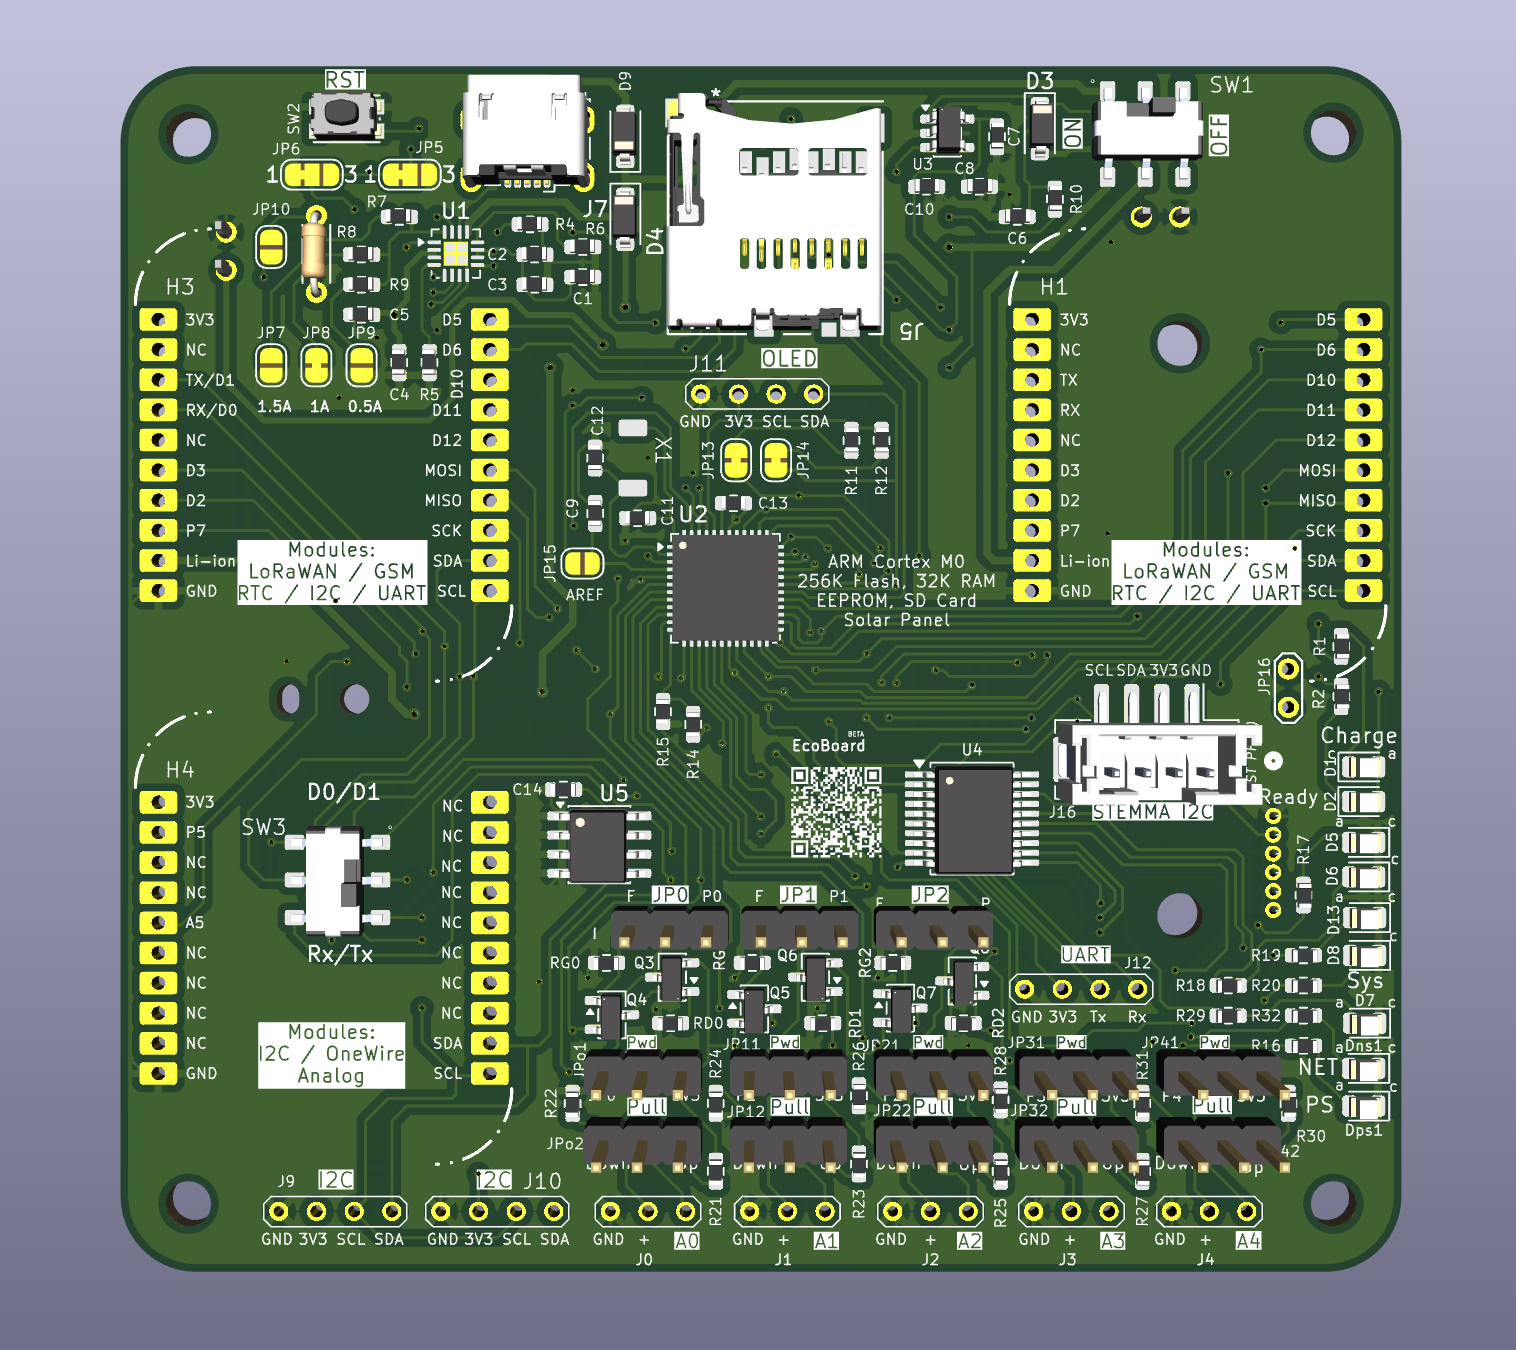
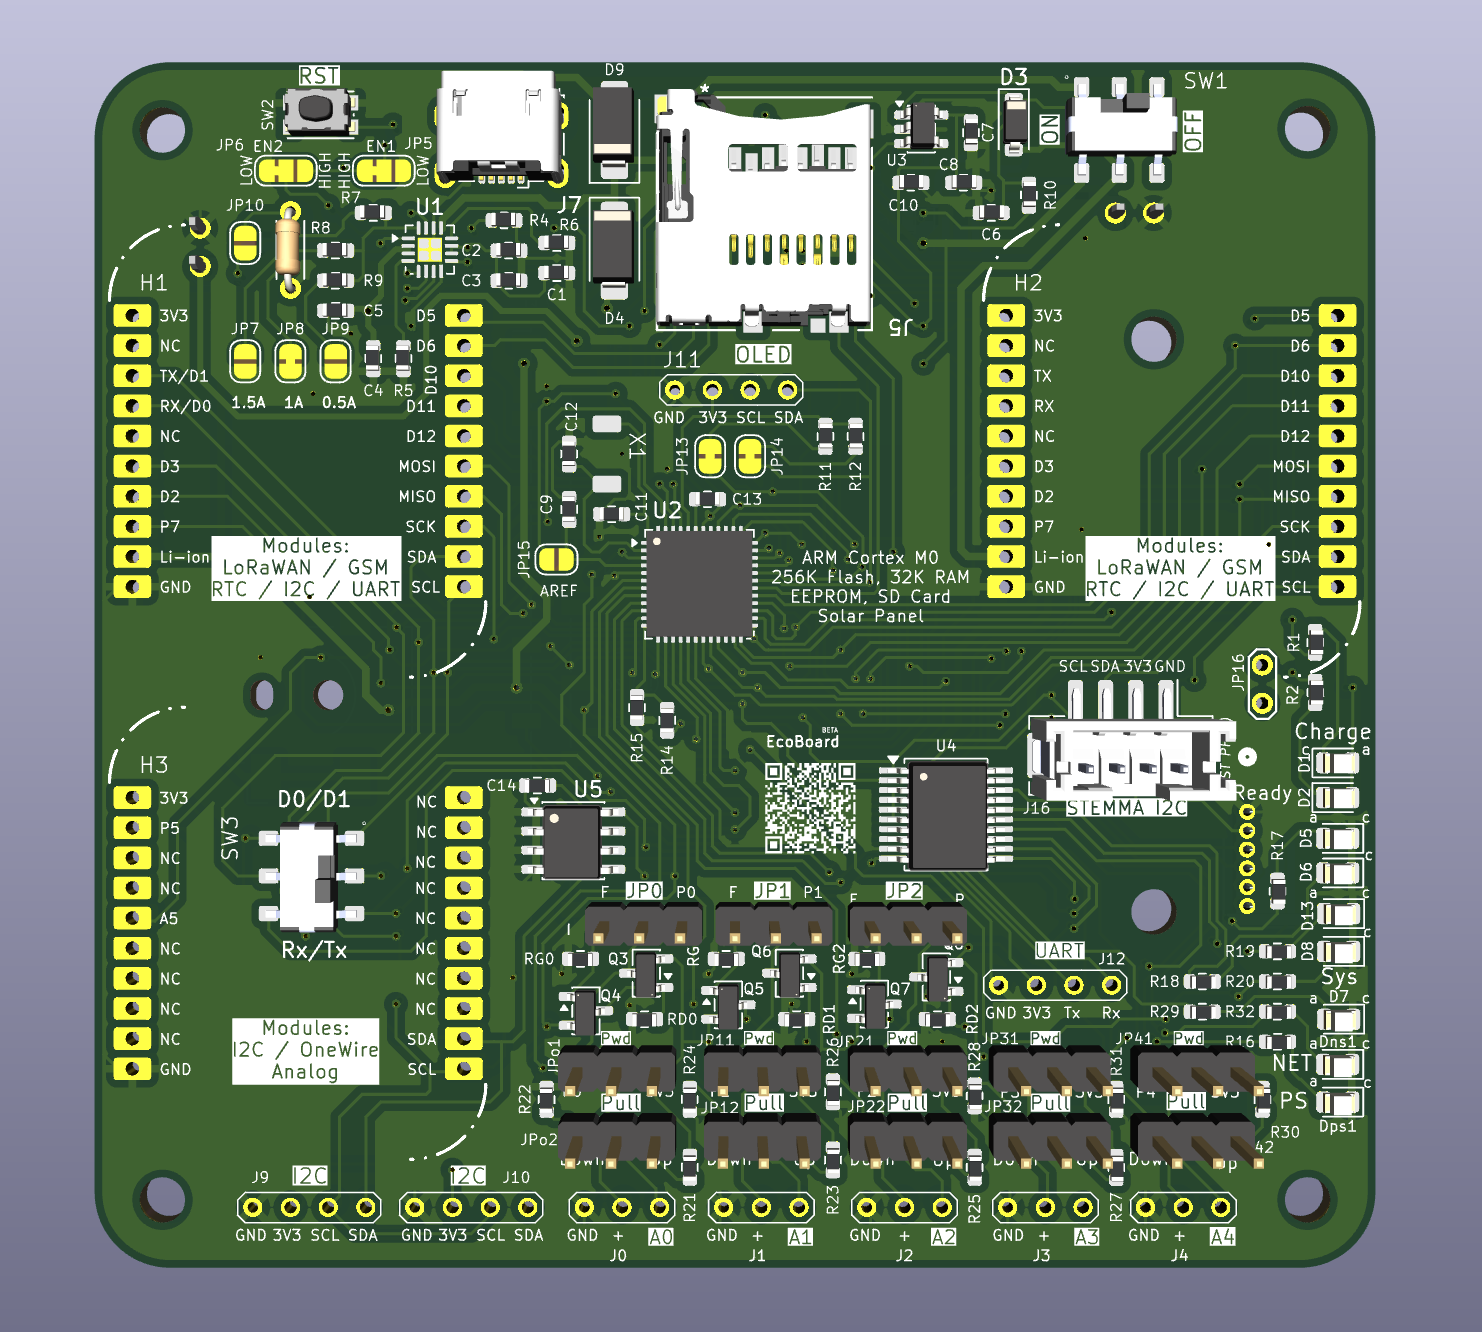
upadte

diff --git a/README.md b/README.md
@@ -332,11 +332,7 @@ Pin | Out
 
 
 
-### Header J9 (EcoLora V3 input)
-![EcoLora V3](assets/lorawan.jpg)
-
-At J9, you can use and connect the EcoLora V3 board. The GSM board is not ready yet.
-The ATSAMD21G18 column indicates the connection to the µController. 
+## Header H1 and H3 (EcoLora V3 input)
 
 
 Pin | ATSAMD21G18 (GPIO) | EcoLora | EcoGprs 
